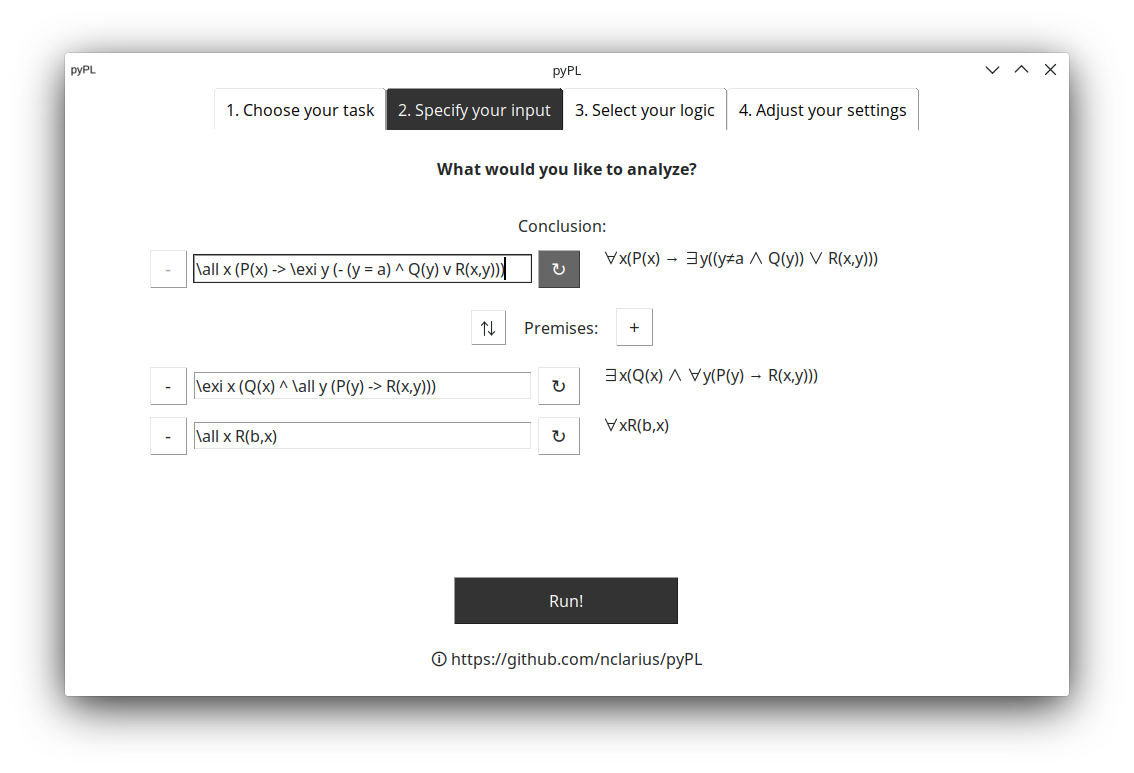
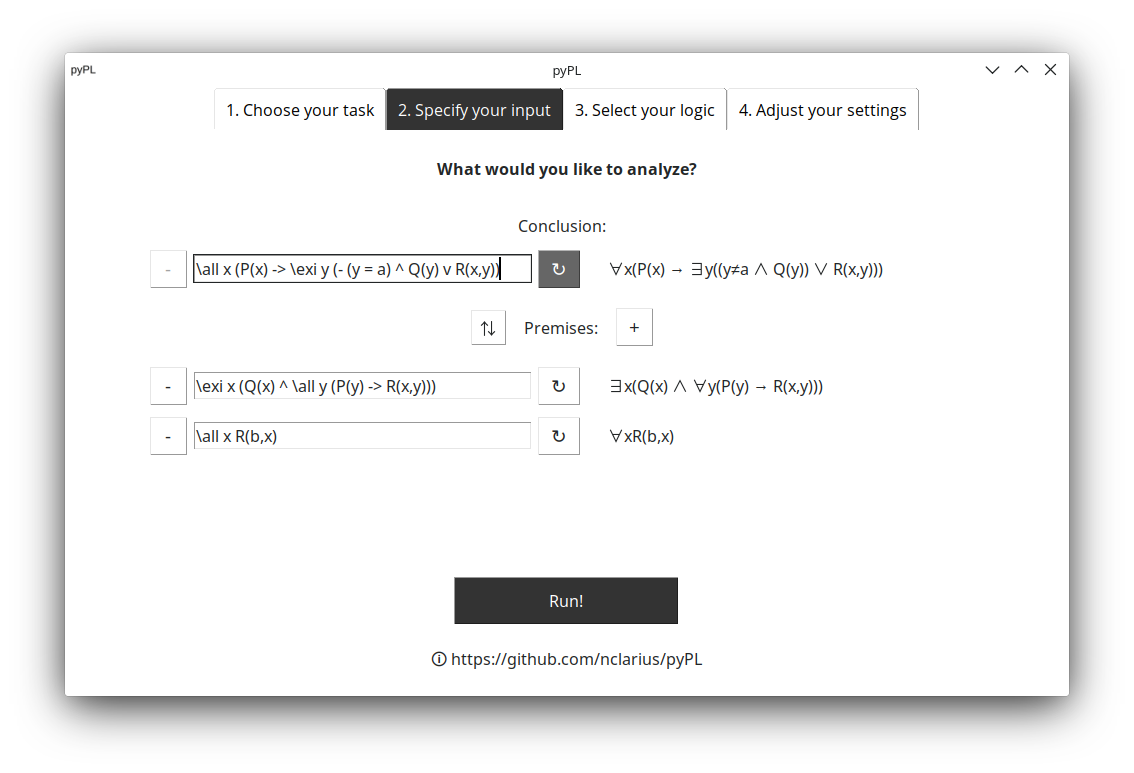
doc

diff --git a/gui.py b/gui.py
@@ -342,7 +342,7 @@ class PyPLGUI(tk.Frame):
             lbl.configure(inactiveselectbackground=lbl.cget("selectbackground"))
             lbl.configure(state="disabled")
             # lbl.pack(in_=mids[row + 1], side=tk.LEFT)
-            lbl.pack(in_=mids[row], side=tk.LEFT, padx=15, fill="both", expand=True)
+            lbl.pack(in_=mids[row], side=tk.LEFT, padx=15, expand=True)
             # lbl = tk.Text(tab, height=1, borderwidth=0)
             # lbl.tag_configure("center", justify='center')
             # lbl.insert(1.0, "...", "center")
